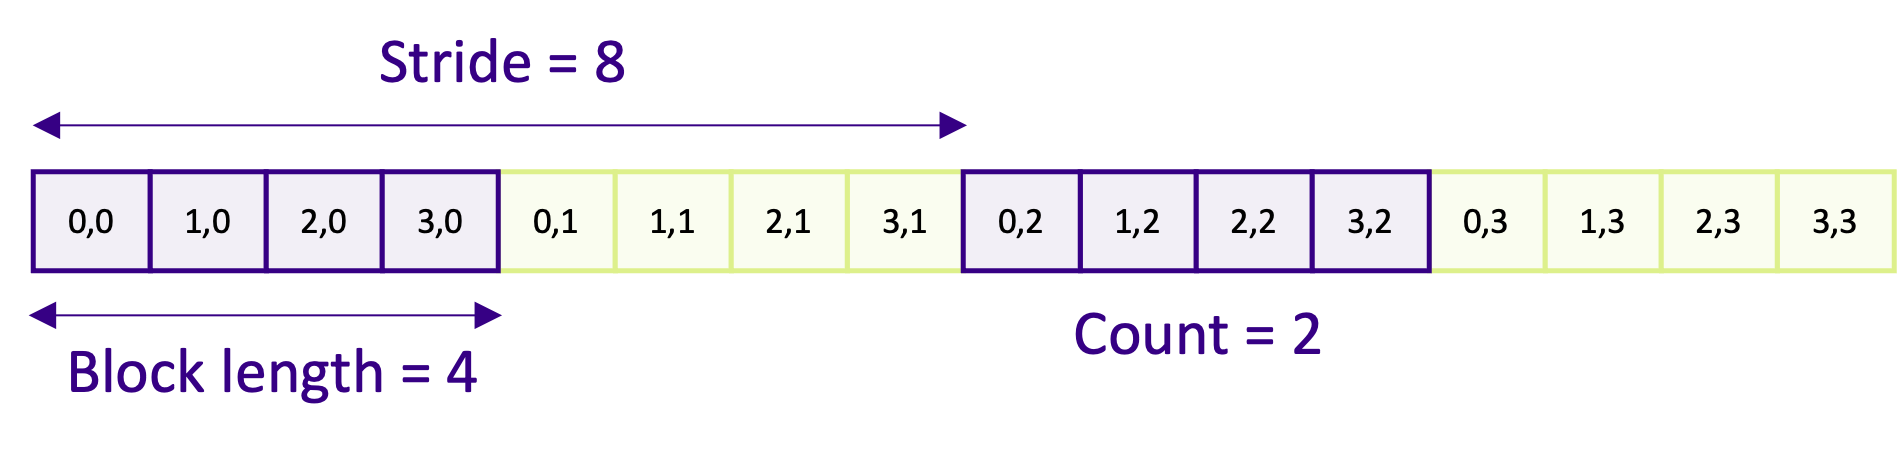
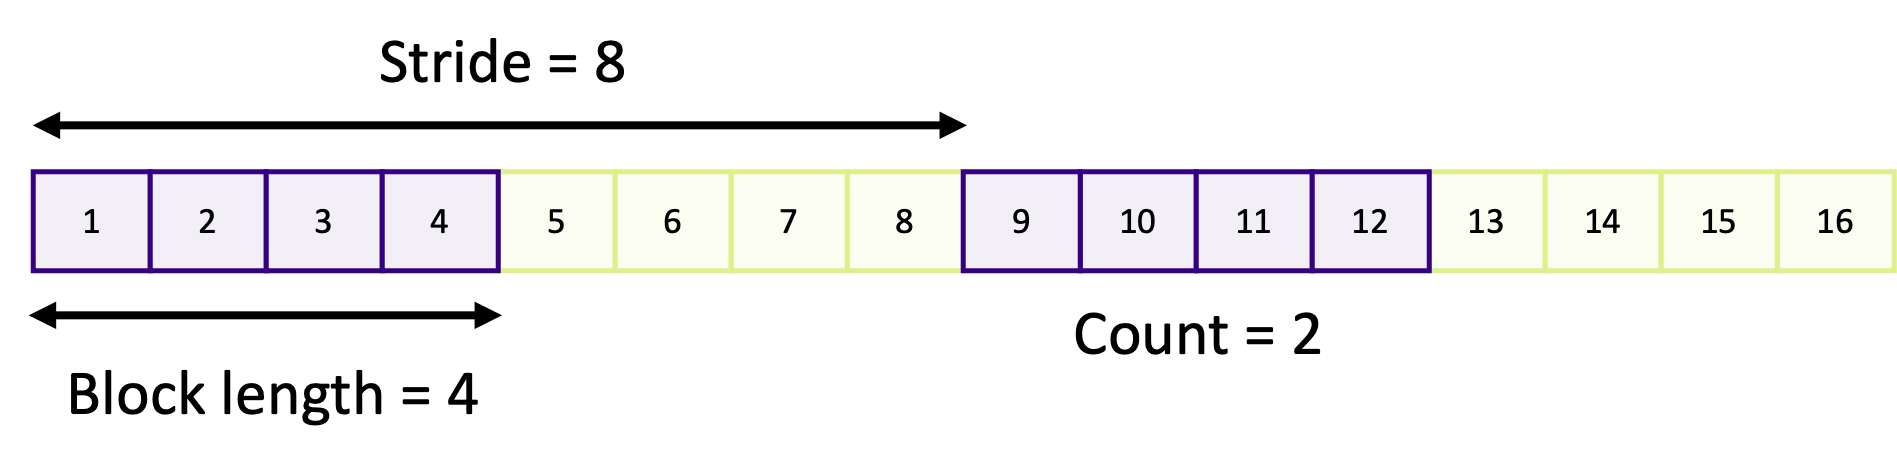
first chunk of multi-d array

diff --git a/_episodes/08-advanced-communication.md b/_episodes/08-advanced-communication.md
@@ -1,22 +1,26 @@
 ---
 title: Advanced Communication Techniques
 slug: "dirac-intro-to-mpi-advanced-communication"
-teaching: 0
+teaching: 15
 exercises: 15
 questions:
--
+- How do I use complex data structures in MPI?
+- What is contiguous memory, and why does it matter?
 objectives:
-- Know how to define and use custom data types for communication
 - Understand the limitations of non-contiguous memory in MPI
+- Know how to define and use custom data types for communication
 keypoints:
--
+- Communicating complex data structures in MPI requires a bit more work
+- Any data being transferred should ideally be a single contiguous block of memory
+- By defining vectors and other datatypes, we can send data for elements which are not-contiguous
+- The functions `MPI_Pack` and `MPI_Unpack` can be used to create a contiguous memory block
 ---
 
 In the previous episodes, we covered the basic building blocks for splitting work and communicating data between ranks,
 meaning we're now dangerous enough to write a simple, and successful, MPI application. But we've only really worked
 with communicating simple data structures, such as single variables or small one dimensional arrays. In reality, the
-software we write is going to have use more complex data structures, such as `structs` or n-dimensional arrays, which
-require a bit more work to communicate efficiently.
+software we write is going to have use more complex data structures, such as structures or n-dimensional arrays, which
+require a bit more work to communicate correctly and efficiently.
 
 ## Working with multi-dimensional arrays
 
@@ -26,11 +30,11 @@ of points is fundamental to the software we write. But with the additional dimen
 just in the code we write but also in how we communicate the extra data.
 
 To make sure we're all on the same page, there are two ways to define a multi-dimensional array in C. The first way is
-an extension of defining a 1D array. To create a *static* 3 x 3 matrix and initialize some values, we use the following
+an extension of defining a 1D array. To create a *static* 2 x 3 matrix and initialize some values, we use the following
 syntax,
 
 ```c
-int matrix[3][3] = { {1, 2, 3}, {4, 5, 6}, {7, 8, 9} };
+int matrix[2][3] = { {1, 2, 3}, {4, 5, 6} };  // matrix[rows][cols]
 ```
 
 The same can be done for any arbitrary sized rectangular array and we also do not need to initialize the array with
@@ -39,10 +43,10 @@ time) and because memory for arrays defined this way are on the
 [stack](https://en.wikipedia.org/wiki/Stack-based_memory_allocation), which is limited on most systems.
 
 The other way is to use `malloc` to dynamically allocate memory on the
-[heap](https://en.wikipedia.org/wiki/Memory_management#HEAP) instead. The main advantage of using `malloc` is that the
-heap is far larger so we can create larger arrays, and we can dynamically set the size at run-time for different
-requirements. But it is a bit more tricky to use. To create a 3 x 3 matrix this way, we actually need to create an array
-of pointers (or pointers to pointers):
+[heap](https://en.wikipedia.org/wiki/Memory_management#HEAP) instead. The main advantage of `malloc` is that the heap is
+far larger than the stack so we can create larger arrays, and we can also dynamically set the size of arrays at run-time
+for different requirements. But it is a bit more tricky to use. To create a 3 x 3 matrix this way, we create an array of
+pointers (or pointers to pointers) as such:
 
 ```c
 float **matrix = malloc(3 * sizeof float);
@@ -53,15 +57,51 @@ for (int i = 0; i < 3; ++i) {
 
 ### The importance of memory contiguity
 
-When we say something is contiguous, all we mean is that we have multiple things next to each other without anything in
-between. In the context of MPI, when we talk about memory contiguity we are almost always talking about how arrays are
-laid out in memory and if elements in arrays are adjacent to one another or not.
+When something is contiguous, it means there are multiple adjacent things without anything in between them. In the
+context of MPI, when we talk about something being contiguous we are almost always talking about how arrays are mapped
+in the computer's memory. The elements in array are contiguous when the next, or previous, element are stored in an
+adjacent memory location.
 
-![Column memory layout in C](fig/c_column_memory_layout.png)
+The memory space of a computer is linear. When we create a multi-dimensional array, the compiler and operating system
+have to decide how to map and store the elements into the linear memory space. There are two ways to do this: either
+[row-major or column-major](https://en.wikipedia.org/wiki/Row-_and_column-major_order). The difference between the
+orders is which elements of the array are contiguous in memory. Arrays are row-major in C and column-major in Fortran.
+In a row-major array, the elements in each column of a row are contiguous so that in memory the element `x[i][j]` is
+preceded by `x[i][j - 1]` and is followed by element `x[i][j +1]`. In Fortran, arrays are column-major so `x(i, j)` is
+followed by `x(i + 1, j)`.
 
-![Column row layout in C](fig/c_row_memory_layout.png)
+The diagram below shows how a 4 x 4 matrix is  mapped to the linear memory space. At the top of the diagram is the
+representation of the linear memory space, where each number is the order of the element in linear memory. Below that
+are two representations of the array in a 2D space: the left shows the coordinate of each element and the right shows
+the order label in the linear representation.
 
-Memory in C is contiguous in the column direction, `x[i][j]` is followed by `x[i][j + 1]`. So the next element
+<img src="fig/c_column_memory_layout.png" alt="Column memory layout in C" height=360>
+
+What's important is what the coloured boxes are showing. The purple elements (5, 6, 7, 8) which map to the coordinates
+`[1][0]`, `[1][1]`, `[1][2]` and `[1][3]` are contiguous in linear memory. The same applies for the orange boxes for the
+elements in row 2 (elements 9, 10, 11 and 12). The next diagram below instead shows how elements in adjacent rows are
+mapped in linear memory.
+
+<img src="fig/c_row_memory_layout.png" alt="Row memory layout in C" height=360>
+
+Looking first at the purple boxes (containing elements 2, 6, 10 and 14) which make up up the row elements for column 1,
+we can see that the elements are no longer contiguous. Element `[0][1]` maps to the second element in linear space,
+element `[1][1]` maps to the sixth element and so on. Elements in the same column but in a different row are separated
+by four other elements. In other words, elements in other rows are not contiguous.
+
+If we wanted to send all of the elements in row 1 of a 4 x 4 matrix, we can do something like this,
+
+```c
+MPI_Send(&matrix[1][0], 4, MPI_INT, ...);
+```
+
+In this case, the send buffer is `&matrix[1][0]` which is the memory address of the first element in row 1 and we've
+only asked to send *four* integer elements. This is actually same we've done for 1D arrays. With the difference that we
+have specified a different starting point (by passing the address of element `[1][0]`) and are asking for less elements
+to be sent. The reason why this works is because, just like in a 1D array, the four elements in the row are contiguous.
+We are not able do the same to send a column of the matrix, because the elements in a column are not contiguous. If we
+tried the same operation for `&matrix[0][1]` to send column 1, then elements `[0][1]`, `[0][2]`, `[0][3]` and `[1][0]`
+are sent (because those are contiguous) instead of `[0][1]`, `[1][1]`, `[2][1]` and `[3][1]`.
 
 > ## What about if I use `malloc`?
 >
@@ -87,7 +127,11 @@ Memory in C is contiguous in the column direction, `x[i][j]` is followed by `x[i
 >
 {: .callout}
 
-### Using vectors to send sub-arrays
+### Using vectors to send slices
+
+To send a single column for a matrix or tensor, we have to use a *vector*. A vector in MPI is a datatype that represents
+a continuous sequence of elements which have a regular spacing between them. Using vectors, we can send columns, rows or
+sub-arrays of a larger array in a single communication.
 
 ```c
 int MPI_Type_vector(
@@ -105,13 +149,12 @@ int MPI_Type_commit(
 );
 ```
 
-![Linear memory layout in C](fig/vector_linear_memory.png)
+<img src="fig/vector_linear_memory.png" alt="How a vector is laid out in memory" height=210>
 
 The following example shows how to send the middle column in a 3x3 array.
 
 ```c
 MPI_Datatype row_t;      /* our new type is a MPI_Datatype */
-
 
 MPI_Type_vector(1,       /* count is number of blocks, e.g. the number of rows we want */
                 3,       /* blocklength is the number of contiguous elements which form a block */
@@ -129,7 +172,10 @@ int send_buffer[3][3] = {
    {6, 7, 8},
 };
 
-/* send the middle row of our 2d send_buffer array */
+/* send the middle row of our 2d send_buffer array. Note that we are sending
+ &send_buffer[1][0] and not send_buffer. This is because we need to send the
+ starting point of the vector type instead of the first element of the array
+ */
 MPI_Send(&send_buffer[1][0], 1, row_t, 1, 0, MPI_COMM_WORLD);
 
 /* the receive function doesn't "work" with vector types, so we have to
@@ -210,10 +256,10 @@ MPI_Recv(recv_buffer, 3, MPI_INT, 0, 0, MPI_COMM_WORLD, MPI_STATUS_IGNORE);
 >
 > ```c
 > int matrix[4][4] = {
->    1,  2,  3,  4,
->    5,  6,  7,  8,
->    9, 10, 11, 12,
->   13, 14, 15, 16
+>   { 1,  2,  3,  4},
+>   { 5,  6,  7,  8},
+>   { 9, 10, 11, 12},
+>   {13, 14, 15, 16}
 > };
 > ```
 >
@@ -239,10 +285,10 @@ MPI_Recv(recv_buffer, 3, MPI_INT, 0, 0, MPI_COMM_WORLD, MPI_STATUS_IGNORE);
 > > int main(int argc, char **argv)
 > > {
 > >     int matrix[4][4] = {
-> >          1,  2,  3,  4,
-> >          5,  6,  7,  8,
-> >          9, 10, 11, 12,
-> >         13, 14, 15, 16
+> >         { 1,  2,  3,  4},
+> >         { 5,  6,  7,  8},
+> >         { 9, 10, 11, 12},
+> >         {13, 14, 15, 16}
 > >     };
 > >
 > >     int my_rank;
